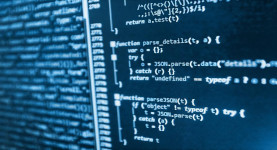
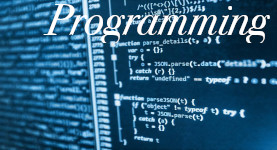
Updated programming

Changed region(s): [[0.1444, 0.0267, 0.9819, 0.2933]]

diff --git a/index.php b/index.php
@@ -31,6 +31,9 @@
 			<tr>
 				<td style="border-left:1px solid #000000;border-bottom:1px solid #000000;border-right:1px solid #000000;width:277px"><a href="poetry.php"><img src="images/poetry.jpg" width="277" height="150" border="0"></a></td>
 			</tr>
+			<tr>
+				<td style="border-left:1px solid #000000;border-bottom:1px solid #000000;border-right:1px solid #000000;width:277px"><a href="program.php"><img src="images/program.jpg" width="277" height="150" border="0"></a></td>
+			</tr>
 			<!--
 			<tr>
 				<td style="border-left:1px solid #000000;border-bottom:1px solid #000000;border-right:1px solid #000000;width:277px"><a href="https://mormon.dreamsense.com"><img src="images/religion.jpg" width="277" height="150" border="0"></a></td>

diff --git a/header.php b/header.php
@@ -17,7 +17,8 @@
 			<a href="/about.php">About</a> |
 			<a href="/stories.php">Stories</a> |
 			<a href="/blog.php">Blog</a> |
-			<a href="/poetry.php">Poetry</a></td>
+			<a href="/poetry.php">Poetry</a> |
+			<a href="/program.php">Programming</a></td>
 	</tr>
 	<tr>
 		<td class="main_content">

diff --git a/program.php b/program.php
@@ -1,0 +1,7 @@
+<?php $title="Programming";?>
+<?php include('header.php');?>
+<?php $footer="footer/program.php";?>
+
+<pre>Hello World</pre>
+
+<?php include('footer.php');?>

diff --git a/footer/program.php b/footer/program.php
@@ -1,0 +1,1 @@
+<p>a = b = c</p>
